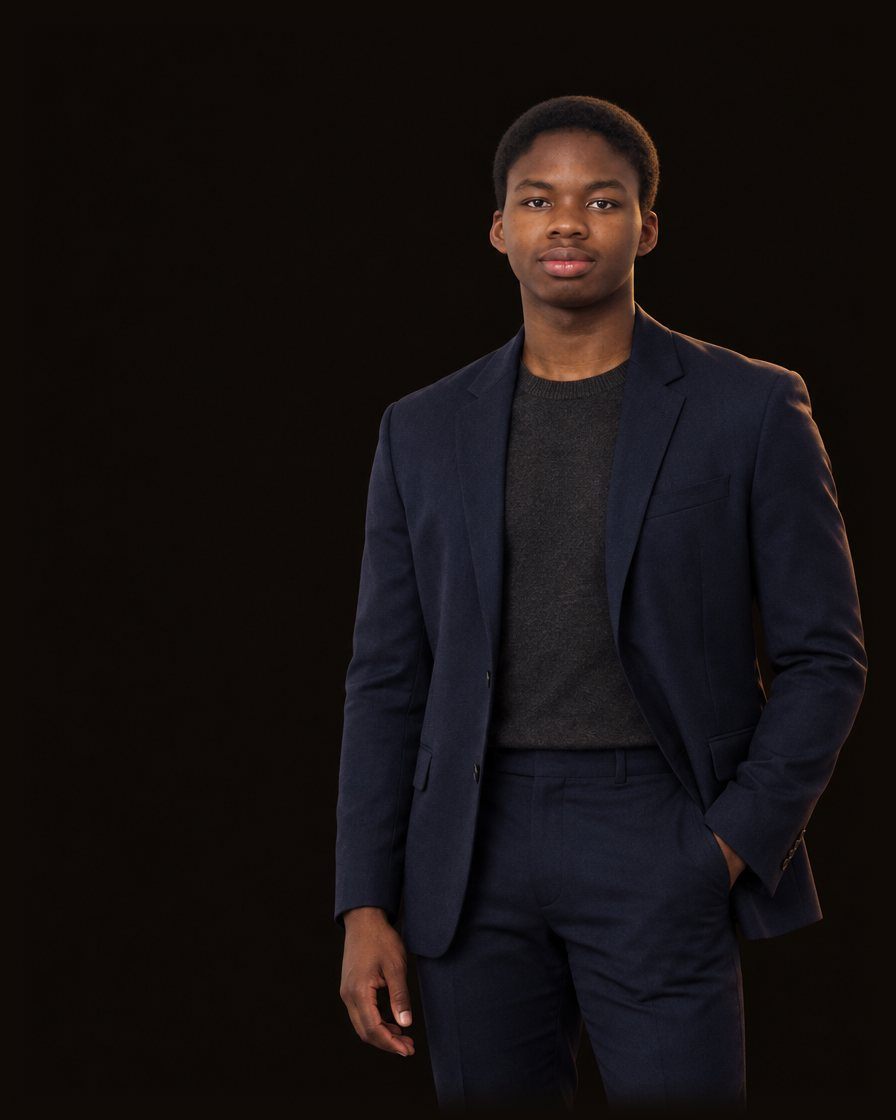
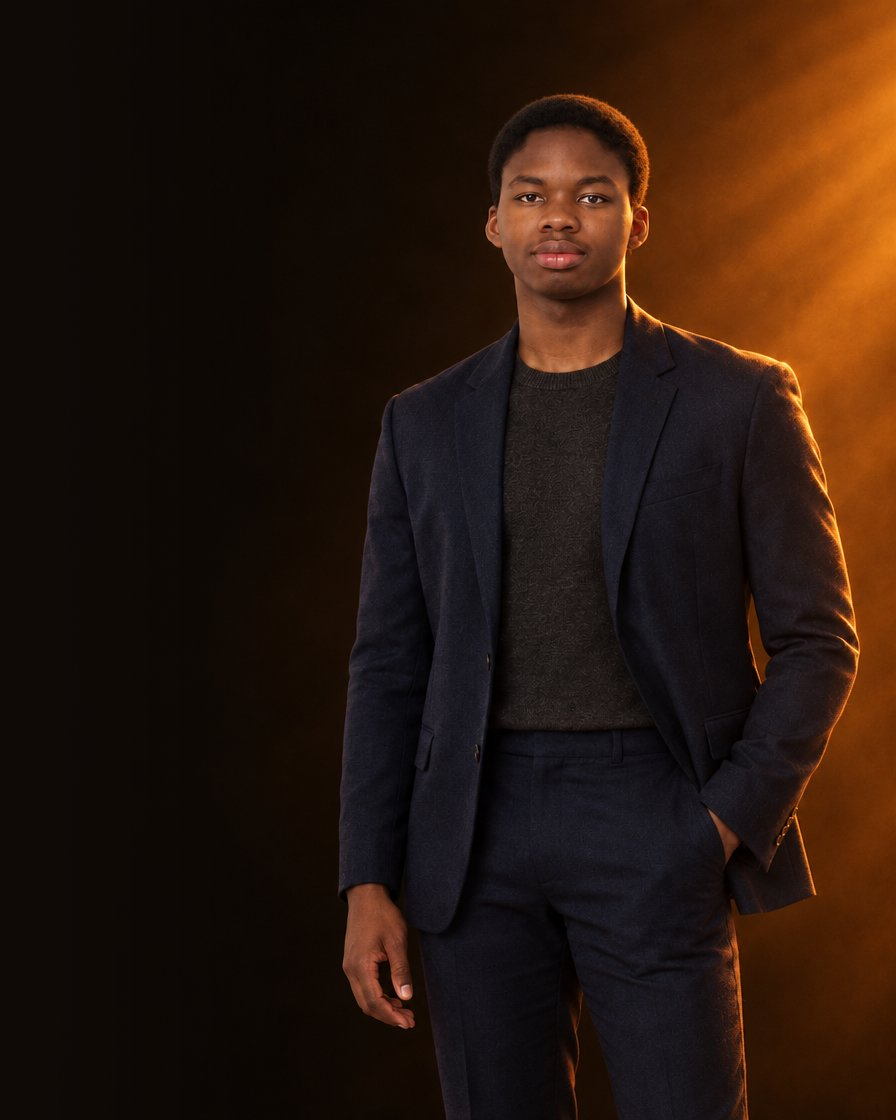
v4 : lumière ambre du portrait, fondus gauche/haut/bas, étiquettes verre dépoli

diff --git a/assets/css/site.css b/assets/css/site.css
@@ -417,3 +417,41 @@ a.card:hover{transform:translateY(-4px);border-color:var(--color-accent)}
 .motion #constat{padding-bottom:0}
 .motion #constat+.sec{padding-top:var(--space-2xl)}
 @media (max-width:55.99rem){.motion .scene{margin-bottom:calc(-1*var(--bar-h))}}
+
+/* v4 : lumière ambre, fondus gauche/haut/bas, étiquettes verre dépoli */
+:root{
+  --color-glow:oklch(64% 0.15 58 / .22);
+  --color-ray:oklch(72% 0.14 65 / .05);
+  --fade-hero:linear-gradient(90deg,transparent 0%,#000 32%),linear-gradient(180deg,transparent 0%,#000 12%,#000 82%,transparent 100%);
+  --glass-veil:oklch(10% 0.01 60 / .55);
+  --glass-veil-solid:oklch(10% 0.01 60 / .9);
+  --glass-edge:oklch(97% 0.01 85 / .18);
+  --glass-hi:oklch(97% 0.01 85 / .14);
+  --glass-before:oklch(48% 0.07 20 / .24);
+  --glass-after:oklch(62% 0.11 75 / .22);
+  --radius-lg:.625rem;
+  --text-chip:clamp(1.15rem,.9rem + 1.2vw,1.4rem);
+  --text-chip-lg:clamp(1rem,1.4vw,1.5rem);
+}
+.hero{overflow-x:clip}
+.hero::before{content:"";position:absolute;inset:0;pointer-events:none;background:radial-gradient(70% 40% at 100% 82%,var(--color-glow),transparent 72%)}
+.motion .hero::before{animation:breathe 10s var(--ease-in-out) infinite alternate}
+@keyframes breathe{from{opacity:.84}to{opacity:1}}
+.hero-grid>div:first-child{position:relative;z-index:1}
+.hero-fig{width:auto;max-width:none;max-height:none;aspect-ratio:4/5;height:auto;justify-self:stretch;margin-inline:calc(-1*var(--gutter));-webkit-mask-image:var(--fade-hero);mask-image:var(--fade-hero);-webkit-mask-composite:source-in;mask-composite:intersect}
+.hero-fig img{transform:none}
+@media (min-width:56rem){
+  .hero::before{background:radial-gradient(50% 80% at 100% 36%,var(--color-glow),transparent 70%),linear-gradient(250deg,var(--color-ray),transparent 36%)}
+  .hero-fig{position:absolute;top:0;right:0;bottom:0;height:auto;width:min(80svh + 8rem,56vw);aspect-ratio:auto;margin:0}
+  .hero-fig img{object-position:70% 18%}
+}
+.ba-tag{font-size:var(--text-chip);background:linear-gradient(180deg,var(--glass-hi),transparent 50%),linear-gradient(var(--glass-tint),var(--glass-tint)),linear-gradient(var(--glass-veil),var(--glass-veil));-webkit-backdrop-filter:blur(16px) saturate(140%);backdrop-filter:blur(16px) saturate(140%);border:1px solid var(--glass-edge);border-radius:var(--radius-lg);box-shadow:var(--shadow-tight);padding:.4em .6em .3em;letter-spacing:.06em}
+.ba-before{--glass-tint:var(--glass-before)}
+.ba-after{--glass-tint:var(--glass-after)}
+.scene-fig .ba-before{top:var(--space-sm);left:var(--space-sm)}
+.scene-fig .ba-after{top:var(--space-sm);right:var(--space-sm);bottom:auto;left:auto}
+.compare-col .ba-tag{font-size:var(--text-chip);top:var(--space-xs);left:var(--space-xs)}
+@media (min-width:64rem){.ba-tag,.compare-col .ba-tag{font-size:var(--text-chip-lg)}}
+@supports not ((backdrop-filter:blur(1px)) or (-webkit-backdrop-filter:blur(1px))){.ba-tag{--glass-veil:var(--glass-veil-solid)}}
+:root{--glass-veil:oklch(10% 0.01 60 / .84)}
+.compare-col .ba-tag{--glass-veil:oklch(10% 0.01 60 / .92)}
